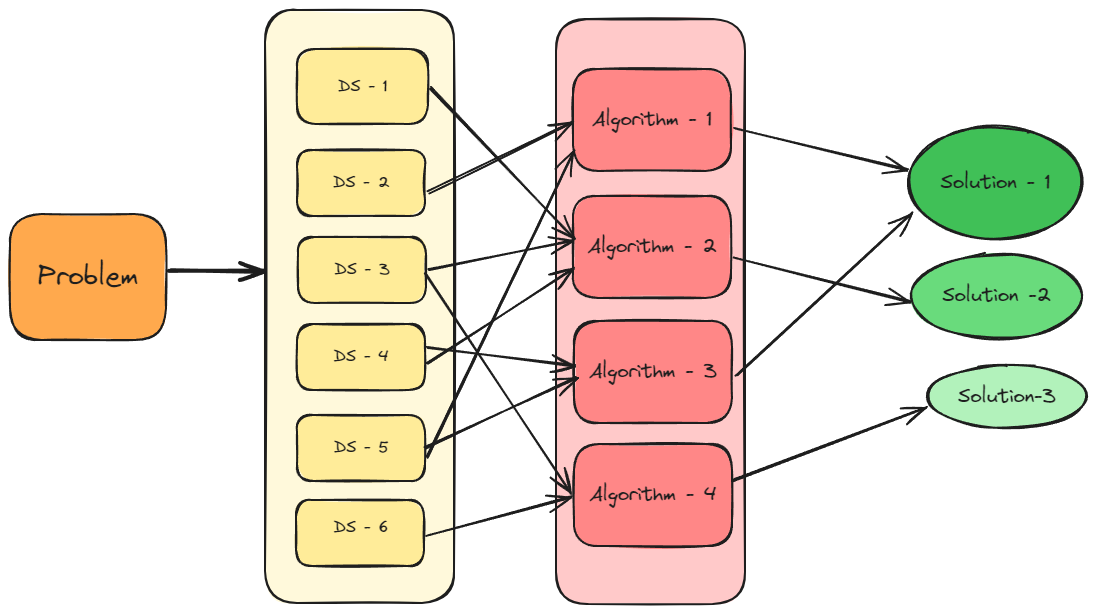
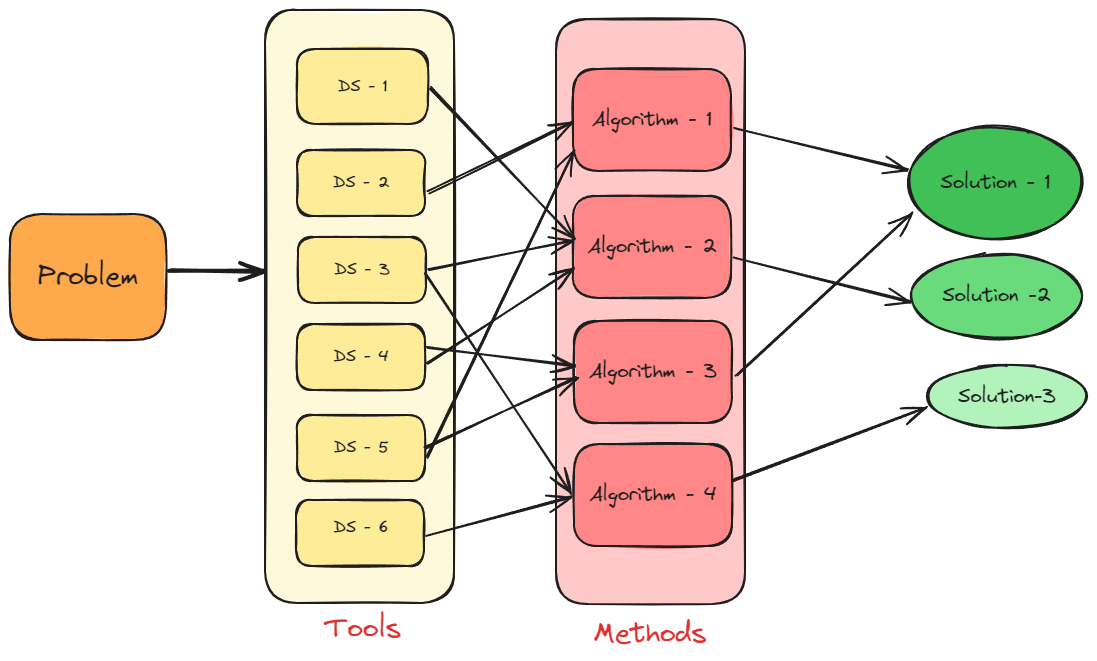
update

diff --git a/_posts/2024-04-07-python-template.md b/_posts/2024-04-07-python-template.md
@@ -502,35 +502,32 @@ def fn(words):
 {% tab log java %}
 
 ```java
-    // note: using a class is only necessary if you want to store data at each node.
-    // otherwise, you can implement a trie using only hash maps.
-    class TrieNode {
-        // you can store data at nodes if you wish
-        int data;
-        Map<Character, TrieNode> children;
-        TrieNode() {
-            this.children = new HashMap<>();
-        }
+// note: using a class is only necessary if you want to store data at each node.
+// otherwise, you can implement a trie using only hash maps.
+class TrieNode {
+    // you can store data at nodes if you wish
+    int data;
+    Map<Character, TrieNode> children;
+    TrieNode() {
+        this.children = new HashMap<>();
     }
+}
 
-    public TrieNode buildTrie(String[] words) {
-        TrieNode root = new TrieNode();
-        for (String word: words) {
-            TrieNode curr = root;
-            for (char c: word.toCharArray()) {
-                if (!curr.children.containsKey(c)) {
-                    curr.children.put(c, new TrieNode());
-                }
-
-                curr = curr.children.get(c);
+public TrieNode buildTrie(String[] words) {
+    TrieNode root = new TrieNode();
+    for (String word: words) {
+        TrieNode curr = root;
+        for (char c: word.toCharArray()) {
+            if (!curr.children.containsKey(c)) {
+                curr.children.put(c, new TrieNode());
             }
-
-            // at this point, you have a full word at curr
-            // you can perform more logic here to give curr an attribute if you want
+            curr = curr.children.get(c);
         }
-
-        return root;
+        // at this point, you have a full word at curr
+        // you can perform more logic here to give curr an attribute if you want
     }
+    return root;
+}
 ```
 
 {% endtab %}

diff --git a/_posts/2024-07-01-Algorithms.md b/_posts/2024-07-01-Algorithms.md
@@ -19,14 +19,116 @@ toc:
  
 ---
 
+---
 
 
 
 <div class="row">
     <div class="col-sm mt-3 mt-md-0">
-        {% include figure.liquid loading="eager" path="assets/img/dsa/problem-design.png" title="Problem Solution Framework" class="img-fluid rounded z-depth-1" %}
+        {% include figure.liquid loading="eager" path="assets/img/dsa/problem-design.png" title="Problem Solution Framework" class="img-fluid rounded z-depth-1" zoomable=true %}
     </div>
 </div>
 <div class="caption">
     Generalized overview of a Problem-Solution Framework
 </div>
+
+
+
+---
+
+## Data Structures
+
+
+
+
+
+
+
+---
+
+## Algorithms
+
+
+---
+
+# Problem Patterns
+
+---
+
+### Two pointers: one input, opposite ends
+
+{% tabs pattern %}
+
+{% tab pattern python %}
+
+```python
+
+```
+
+{% endtab %}
+
+{% tab pattern java %}
+
+```java
+public int fn(int[] arr) {
+    int left = 0;
+    int right = arr.length - 1;
+    int ans = 0;
+    while (left < right) {
+        // do some logic here with left and right
+        if (CONDITION) {
+            left++;
+        } else {
+            right--;
+        }
+    }
+    return ans;
+}
+```
+
+{% endtab %}
+
+{% endtabs %}
+
+
+
+
+
+----
+
+
+
+
+
+
+
+
+
+
+
+
+
+---
+
+{% tabs pattern %}
+
+{% tab pattern python %}
+
+```python
+
+```
+
+{% endtab %}
+
+{% tab pattern java %}
+
+```java
+
+```
+
+{% endtab %}
+
+{% endtabs %}
+
+
+---

diff --git a/_posts/2024-03-16-java-template.md b/_posts/2024-03-16-java-template.md
@@ -102,9 +102,9 @@ public String fn(char[] arr) {
 >   
 > - Either as an intermediate step, or as the final solution, the problem requires identifying:
 > 
->   - the first $x \\%$ of the elements in a linked list, or, 
->   - the element at the $k-way$ point in a linked list, for example, the middle element, or the element at the start of the second quartile, etc.
->   - the $k^{th}$ last element in a linked list
+>   - the first $$x$$ of the elements in a linked list, or, 
+>   - the element at the $$k-way$$ point in a linked list, for example, the middle element, or the element at the start of the second quartile, etc.
+>   - the $$k^{th}$$ last element in a linked list
 > - Solving the problem requires detecting the presence of a cycle in a linked list.
 > 
 > - Solving the problem requires detecting the presence of a cycle in a sequence of symbols.
